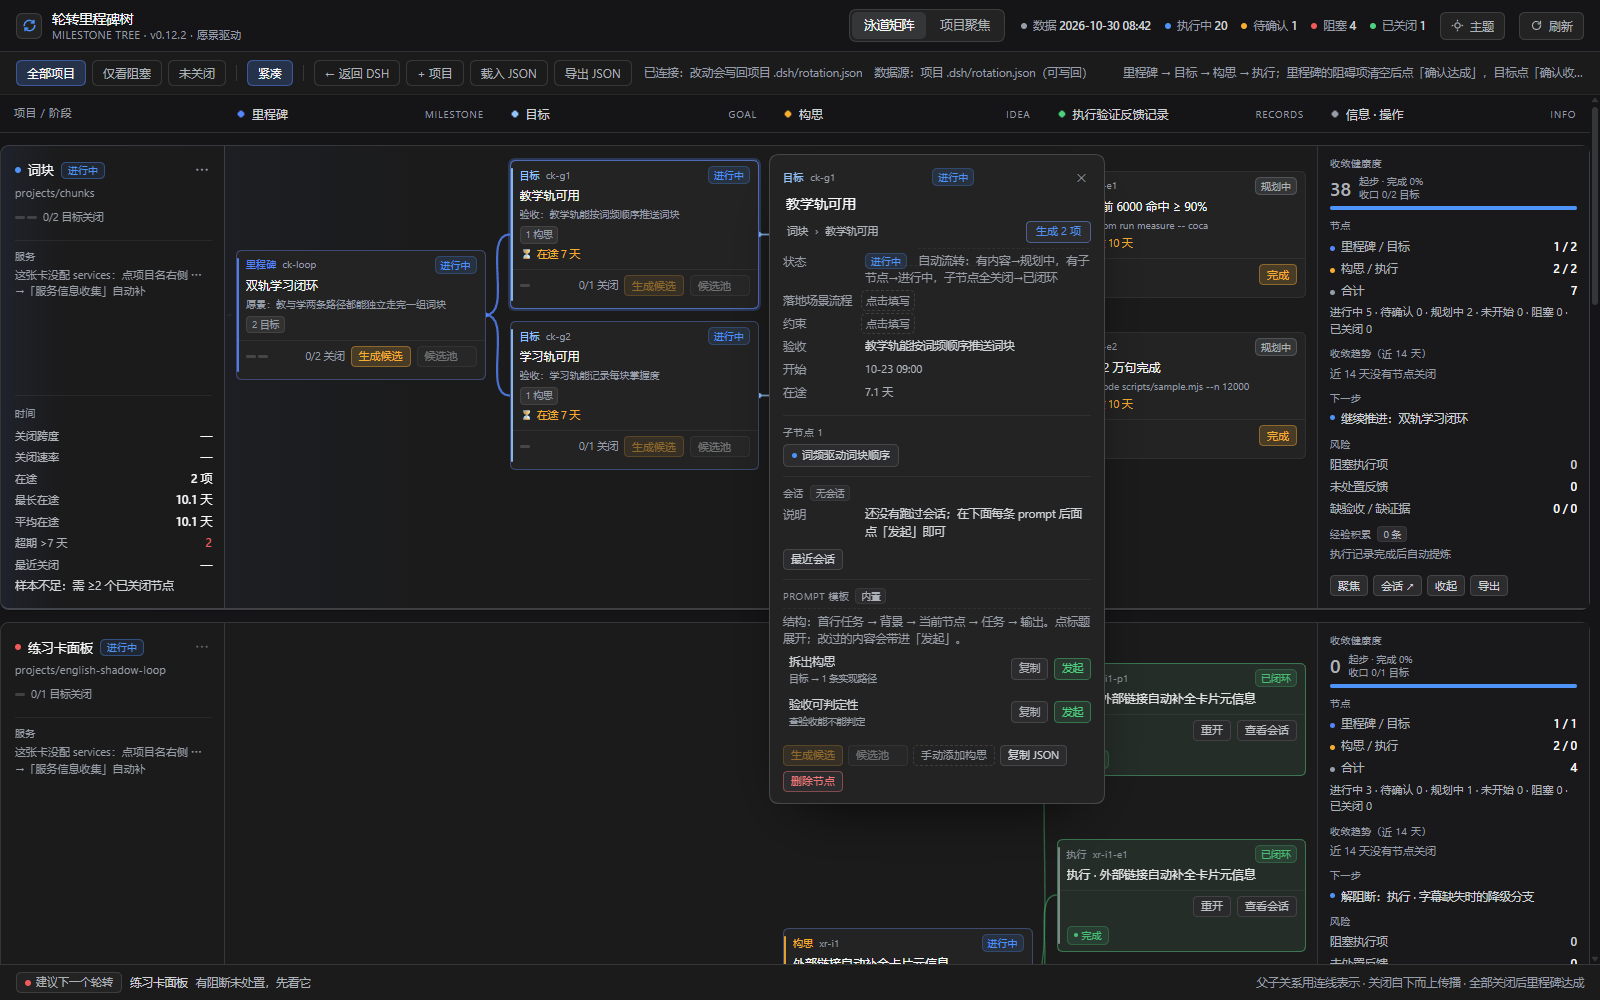
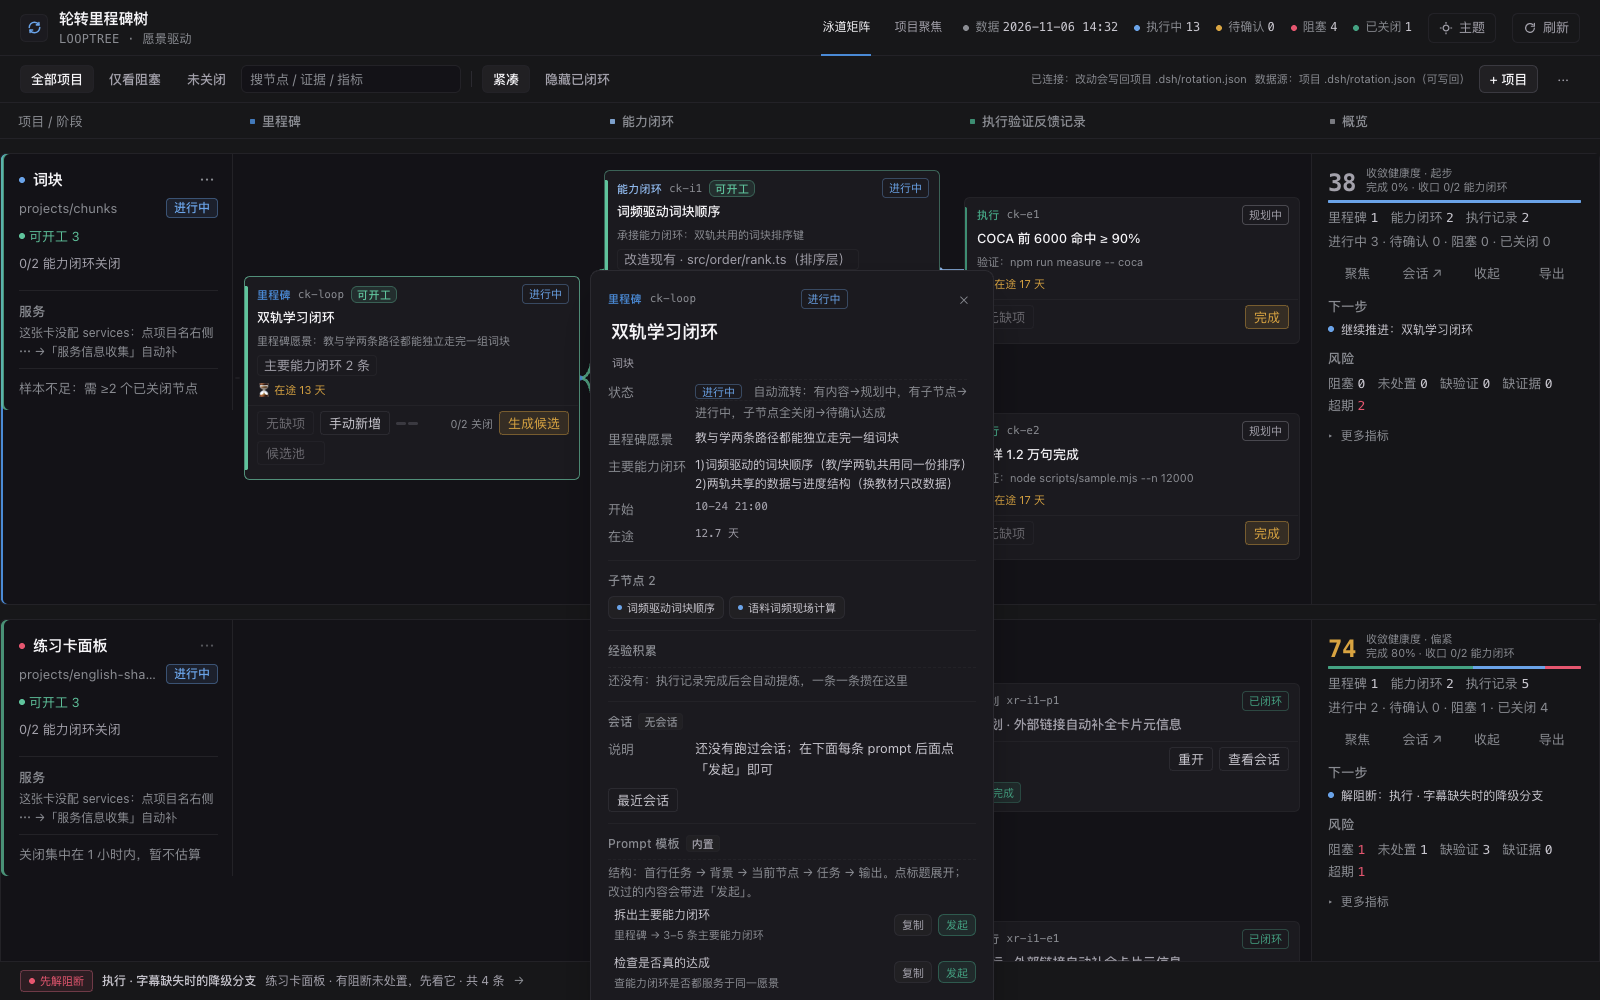
docs: README 截图更新到 v0.22 新版面板
- hero / detail / prompt-structure / hero-full 四张图用 samples 卡片重拍，与线上一致
- 截图说明从 v0.12 改为 v0.22，英文与中文版同步
- 验证：四张图尺寸 1600x1000 / 1600x1120 / 1600x4400，内容为样例项目

diff --git a/README.md b/README.md
@@ -131,7 +131,7 @@ did the work. The panel is the view; DSH is the engine.
 
 </details>
 
-<sub>Screenshots are the real panel at v0.12 (the current panel is three columns), running on the sample cards in `samples/`.</sub>
+<sub>Screenshots are the real panel at v0.22 (three-column matrix, status rail on the right), running on the sample cards in `samples/`.</sub>
 
 ## Installation
 

diff --git a/README.zh-CN.md b/README.zh-CN.md
@@ -112,7 +112,7 @@
 
 </details>
 
-<sub>截图是 v0.12 的真面板（当前为三列布局），数据是 `samples/` 里的样例卡。</sub>
+<sub>截图是 v0.22 的真面板（三列矩阵 + 右侧概览栏），数据是 `samples/` 里的样例卡。</sub>
 
 ## 安装
 
